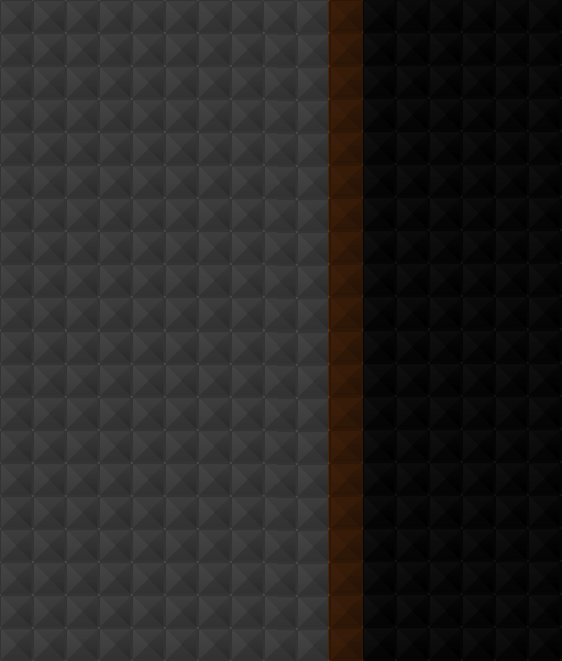
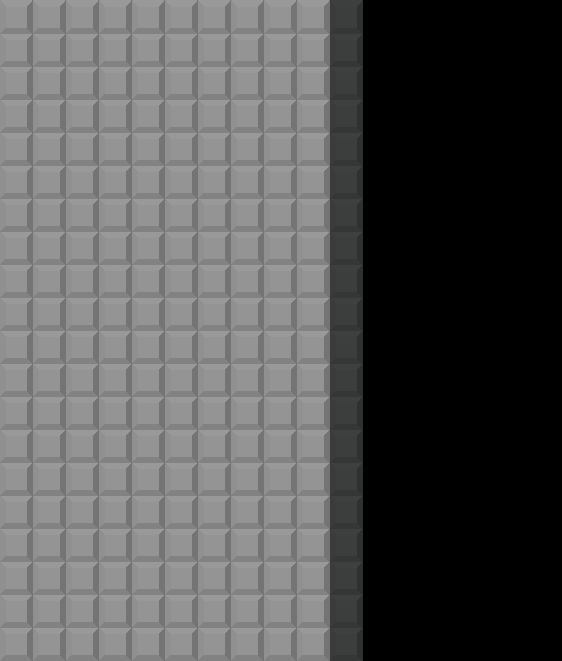
Graphics
Graphics

diff --git a/Tetris/SBlock.cpp b/Tetris/SBlock.cpp
@@ -1,7 +1,7 @@
 #include "SBlock.h"
 
 SBlock::SBlock() {
-	tileTexture.loadFromFile("images/brick.png");
+	tileTexture.loadFromFile("images/sb.png");
 	BRICK_SIZE = 30;
 	angle = 0;
 
@@ -9,7 +9,6 @@ SBlock::SBlock() {
 	for (int i = 0; i < 4; i++) {
 		blocks[i].setSize(Vector2f(BRICK_SIZE, BRICK_SIZE));
 		blocks[i].setTexture(&tileTexture);
-		blocks[i].setFillColor(Color::Magenta);
 	}
 
 	// Ustawiam ksztalt klocka "S"

diff --git a/Tetris/LBlock.cpp b/Tetris/LBlock.cpp
@@ -1,7 +1,7 @@
 #include "LBlock.h"
 
 LBlock::LBlock() {
-	tileTexture.loadFromFile("images/brick.png");
+	tileTexture.loadFromFile("images/lb.png");
 	BRICK_SIZE = 30;
 	angle = 0;
 
@@ -9,7 +9,6 @@ LBlock::LBlock() {
 	for (int i = 0; i < 4; i++) {
 		blocks[i].setSize(Vector2f(BRICK_SIZE, BRICK_SIZE));
 		blocks[i].setTexture(&tileTexture);
-		blocks[i].setFillColor(Color::Yellow);
 	}
 
 	// Ustawiam ksztalt klocka "L"

diff --git a/Tetris/ZBlock.cpp b/Tetris/ZBlock.cpp
@@ -1,7 +1,7 @@
 #include "ZBlock.h"
 
 ZBlock::ZBlock() {
-	tileTexture.loadFromFile("images/pibrick.png");
+	tileTexture.loadFromFile("images/zb.png");
 	BRICK_SIZE = 30;
 	angle = 0;
 

diff --git a/Tetris/JBlock.cpp b/Tetris/JBlock.cpp
@@ -1,7 +1,7 @@
 #include "JBlock.h"
 
 JBlock::JBlock() {
-	tileTexture.loadFromFile("images/obrick.png");
+	tileTexture.loadFromFile("images/jb.png");
 	BRICK_SIZE = 30;
 	angle = 0;
 

diff --git a/Tetris/OBlock.cpp b/Tetris/OBlock.cpp
@@ -1,7 +1,7 @@
 #include "OBlock.h"
 
 OBlock::OBlock() {
-	tileTexture.loadFromFile("images/ybrick.png");
+	tileTexture.loadFromFile("images/ob.png");
 	BRICK_SIZE = 30;
 	angle = 0;
 

diff --git a/Tetris/TBlock.cpp b/Tetris/TBlock.cpp
@@ -1,7 +1,7 @@
 #include "TBlock.h"
 
 TBlock::TBlock() {
-	tileTexture.loadFromFile("images/pbrick.png");
+	tileTexture.loadFromFile("images/tb.png");
 	BRICK_SIZE = 30;
 	angle = 0;
 

diff --git a/Tetris/IBlock.cpp b/Tetris/IBlock.cpp
@@ -1,7 +1,7 @@
 #include "IBlock.h"
 
 IBlock::IBlock() {
-	tileTexture.loadFromFile("images/brick.png");
+	tileTexture.loadFromFile("images/ib.png");
 	BRICK_SIZE = 30;
 	angle = 0;
 
